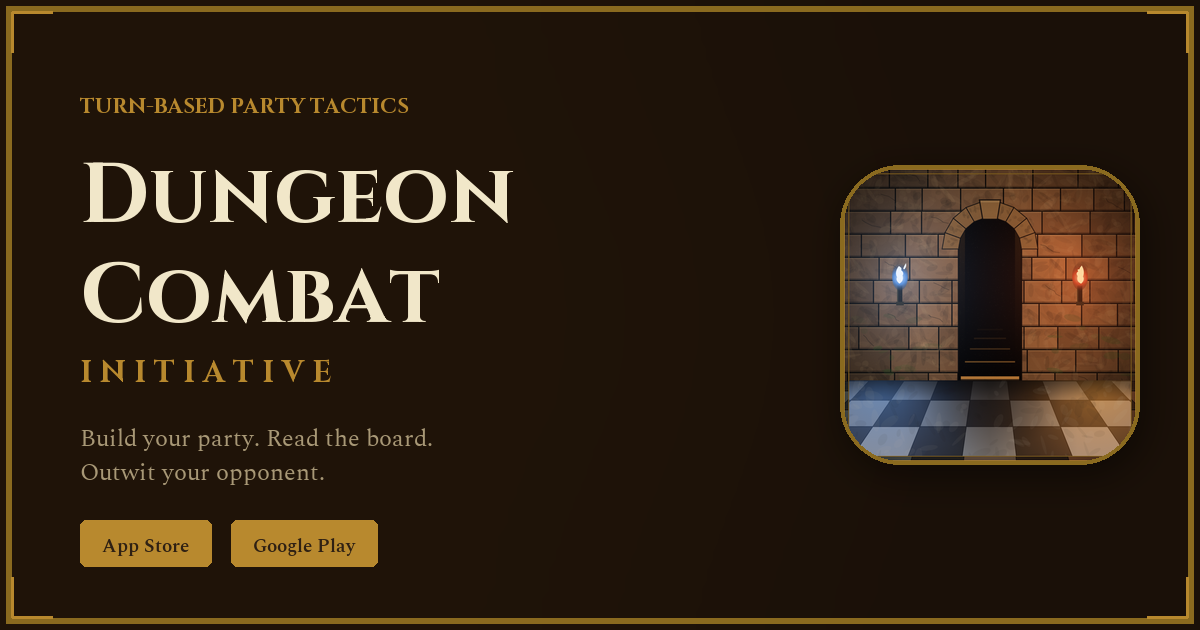
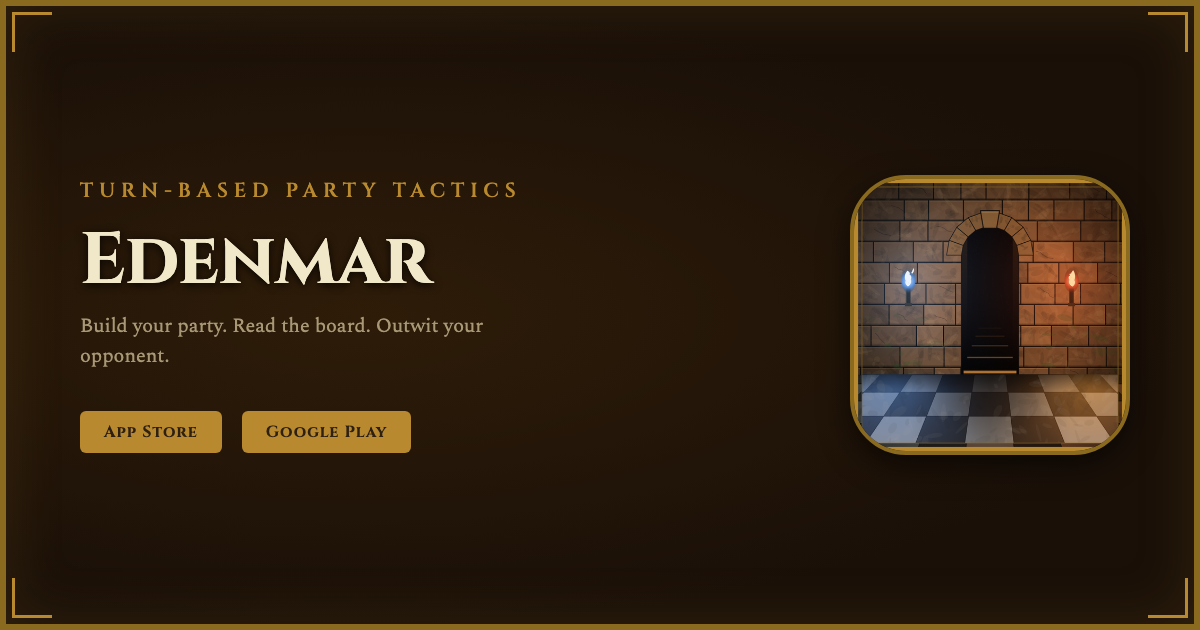
Rename Dungeon Combat -> Edenmar; website moves to edenmargame.com
Site pages, titles, canonical URLs, sitemap/robots, OG share image
(regenerated from og-template.html, now in the site's Cinzel/Spectral),
smart-link landing pages, password-reset email subject, config defaults
and .env.example. Invite links now default to WEB_ORIGIN instead of a
hardcoded dungeoncombat.app host we never owned.

Kept on purpose: the dungeoncombat URL scheme and com.dungeoncombat.app
package (permanent identifiers baked into installed builds and the store
listings), and historical migrations.

diff --git a/web/index.html b/web/index.html
@@ -3,22 +3,22 @@
 <head>
   <meta charset="utf-8" />
   <meta name="viewport" content="width=device-width, initial-scale=1" />
-  <title>Dungeon Combat: Initiative — Tabletop Tactics, No Table</title>
+  <title>Edenmar — Tabletop Tactics, No Table</title>
   <meta name="description" content="Build your party of four from eight classes, choose your specials, and outsmart real opponents in five-minute tactical duels. Daily puzzles, story campaigns, and a tournament-grade AI. No pay-to-win, ever." />
-  <link rel="canonical" href="https://dungeoncombat.org/" />
+  <link rel="canonical" href="https://edenmargame.com/" />
   <link rel="icon" href="/assets/favicon.png" />
   <link rel="apple-touch-icon" href="/assets/apple-touch-icon.png" />
   <meta name="theme-color" content="#f1e7c9" />
-  <meta property="og:title" content="Dungeon Combat: Initiative" />
+  <meta property="og:title" content="Edenmar" />
   <meta property="og:description" content="Tabletop-style tactics duels. Build your party, outsmart friends. No pay-to-win." />
   <meta property="og:type" content="website" />
-  <meta property="og:url" content="https://dungeoncombat.org/" />
+  <meta property="og:url" content="https://edenmargame.com/" />
   <!-- OG/Twitter image URLs must be ABSOLUTE — social scrapers don't resolve relative paths. -->
-  <meta property="og:image" content="https://dungeoncombat.org/assets/og-image.png" />
+  <meta property="og:image" content="https://edenmargame.com/assets/og-image.png" />
   <meta property="og:image:width" content="1200" />
   <meta property="og:image:height" content="630" />
   <meta name="twitter:card" content="summary_large_image" />
-  <meta name="twitter:image" content="https://dungeoncombat.org/assets/og-image.png" />
+  <meta name="twitter:image" content="https://edenmargame.com/assets/og-image.png" />
   <link rel="preconnect" href="https://fonts.googleapis.com" />
   <link rel="preconnect" href="https://fonts.gstatic.com" crossorigin />
   <link href="https://fonts.googleapis.com/css2?family=Cinzel:wght@600;700&family=Spectral:ital,wght@0,400;0,600;0,700;1,400&display=swap" rel="stylesheet" />
@@ -27,9 +27,9 @@
   {
     "@context": "https://schema.org",
     "@type": "VideoGame",
-    "name": "Dungeon Combat: Initiative",
-    "url": "https://dungeoncombat.org/",
-    "image": "https://dungeoncombat.org/assets/og-image.png",
+    "name": "Edenmar",
+    "url": "https://edenmargame.com/",
+    "image": "https://edenmargame.com/assets/og-image.png",
     "description": "Turn-based party tactics. Build a party of four from eight classes and duel real opponents on an 8x8 board. Daily puzzles, story campaigns, offline AI. No pay-to-win.",
     "genre": ["Strategy", "Tactics", "Board"],
     "gamePlatform": ["iOS", "Android"],
@@ -37,7 +37,7 @@
     "operatingSystem": "iOS, Android",
     "offers": { "@type": "Offer", "price": "0", "priceCurrency": "USD" },
     "playMode": ["SinglePlayer", "MultiPlayer"],
-    "publisher": { "@type": "Organization", "name": "Dungeon Combat", "url": "https://dungeoncombat.org/" }
+    "publisher": { "@type": "Organization", "name": "Edenmar", "url": "https://edenmargame.com/" }
   }
   </script>
 </head>
@@ -45,8 +45,8 @@
   <header class="topbar">
     <div class="wrap">
       <a class="brand" href="/">
-        <img src="/assets/icon.png" alt="Dungeon Combat logo" />
-        <span class="name">Dungeon Combat</span>
+        <img src="/assets/icon.png" alt="Edenmar logo" />
+        <span class="name">Edenmar</span>
       </a>
       <nav class="navlinks">
         <a href="/#classes">Classes</a>
@@ -62,7 +62,7 @@
       <div class="wrap hero-grid">
         <div>
           <span class="eyebrow">Turn-based party tactics</span>
-          <h1>Dungeon Combat <span class="sub">Initiative</span></h1>
+          <h1>Edenmar</h1>
           <p class="lede">Remember the best part of game night — the moment your plan came together? That moment, in five-minute tactical duels on your phone.</p>
           <div class="proof-strip">
             <span>8 classes</span><i>·</i>
@@ -73,7 +73,7 @@
           <div class="stores" id="get" data-stores></div>
         </div>
         <div class="hero-art">
-          <img class="hero-icon" src="/assets/icon.png" alt="Dungeon Combat — a torchlit dungeon door above a checkered battle floor" />
+          <img class="hero-icon" src="/assets/icon.png" alt="Edenmar — a torchlit dungeon door above a checkered battle floor" />
           <img class="hero-hover hero-hover-l" src="/assets/portraits/fighter.png" alt="" aria-hidden="true" />
           <img class="hero-hover hero-hover-r" src="/assets/portraits/warlock.png" alt="" aria-hidden="true" />
         </div>
@@ -215,7 +215,7 @@
       <div class="wrap">
         <div class="section-head">
           <h2>Ready your party</h2>
-          <p>Download Dungeon Combat: Initiative and play your first duel in minutes.</p>
+          <p>Download Edenmar and play your first duel in minutes.</p>
         </div>
         <div class="stores" data-stores style="justify-content:center"></div>
       </div>
@@ -226,14 +226,14 @@
     <div class="wrap">
       <div class="foot-brand">
         <img src="/assets/icon.png" alt="" />
-        Dungeon Combat: Initiative
+        Edenmar
       </div>
       <nav>
         <a href="/support.html">Support</a>
         <a href="/privacy.html">Privacy Policy</a>
         <a href="/terms.html">Terms of Service</a>
       </nav>
-      <div class="copy">© <span data-year></span> Dungeon Combat. Tabletop-inspired tactics. Not affiliated with any tabletop RPG publisher.</div>
+      <div class="copy">© <span data-year></span> Edenmar. Tabletop-inspired tactics. Not affiliated with any tabletop RPG publisher.</div>
     </div>
   </footer>
 

diff --git a/web/terms.html b/web/terms.html
@@ -3,9 +3,9 @@
 <head>
   <meta charset="utf-8" />
   <meta name="viewport" content="width=device-width, initial-scale=1" />
-  <title>Terms of Service — Dungeon Combat: Initiative</title>
-  <meta name="description" content="Terms of Service for Dungeon Combat: Initiative." />
-  <link rel="canonical" href="https://dungeoncombat.org/terms.html" />
+  <title>Terms of Service — Edenmar</title>
+  <meta name="description" content="Terms of Service for Edenmar." />
+  <link rel="canonical" href="https://edenmargame.com/terms.html" />
   <link rel="icon" href="/assets/favicon.png" />
   <link rel="preconnect" href="https://fonts.googleapis.com" />
   <link rel="preconnect" href="https://fonts.gstatic.com" crossorigin />
@@ -16,8 +16,8 @@
   <header class="topbar">
     <div class="wrap">
       <a class="brand" href="/">
-        <img src="/assets/icon.png" alt="Dungeon Combat logo" />
-        <span class="name">Dungeon Combat</span>
+        <img src="/assets/icon.png" alt="Edenmar logo" />
+        <span class="name">Edenmar</span>
       </a>
       <nav class="navlinks">
         <a href="/#features">Features</a>
@@ -33,7 +33,7 @@
       <h1>Terms of Service</h1>
       <p class="updated">Last updated: <span data-review-date>2026-07-24</span></p>
 
-      <p>These Terms govern your use of Dungeon Combat: Initiative. By creating an account or playing, you agree to them.</p>
+      <p>These Terms govern your use of Edenmar. By creating an account or playing, you agree to them.</p>
 
       <h2>Your account</h2>
       <p>You are responsible for keeping your login secure and for activity under your account. Provide accurate information and keep it up to date. One person, one account, unless we agree otherwise.</p>
@@ -42,7 +42,7 @@
       <p>Play fair. Do not cheat, exploit bugs, use automation to gain an advantage, harass other players, or attempt to disrupt the service. We may suspend or close accounts that break these rules.</p>
 
       <h2>Purchases</h2>
-      <p>The game may offer optional purchases of content such as campaigns and character skins. Purchases sell content, never competitive power — Dungeon Combat: Initiative is designed to be free of pay-to-win mechanics. Purchases are handled by the App Store or Google Play, and their terms and refund policies apply.</p>
+      <p>The game may offer optional purchases of content such as campaigns and character skins. Purchases sell content, never competitive power — Edenmar is designed to be free of pay-to-win mechanics. Purchases are handled by the App Store or Google Play, and their terms and refund policies apply.</p>
 
       <h2>Content and conduct</h2>
       <p>Choose a username and any player-visible content that is respectful and appropriate for a kid-friendly audience. We may remove content or names that violate these Terms.</p>
@@ -68,14 +68,14 @@
     <div class="wrap">
       <div class="foot-brand">
         <img src="/assets/icon.png" alt="" />
-        Dungeon Combat: Initiative
+        Edenmar
       </div>
       <nav>
         <a href="/support.html">Support</a>
         <a href="/privacy.html">Privacy Policy</a>
         <a href="/terms.html">Terms of Service</a>
       </nav>
-      <div class="copy">© <span data-year></span> Dungeon Combat.</div>
+      <div class="copy">© <span data-year></span> Edenmar.</div>
     </div>
   </footer>
 

diff --git a/web/privacy.html b/web/privacy.html
@@ -3,9 +3,9 @@
 <head>
   <meta charset="utf-8" />
   <meta name="viewport" content="width=device-width, initial-scale=1" />
-  <title>Privacy Policy — Dungeon Combat: Initiative</title>
-  <meta name="description" content="Privacy Policy for Dungeon Combat: Initiative." />
-  <link rel="canonical" href="https://dungeoncombat.org/privacy.html" />
+  <title>Privacy Policy — Edenmar</title>
+  <meta name="description" content="Privacy Policy for Edenmar." />
+  <link rel="canonical" href="https://edenmargame.com/privacy.html" />
   <link rel="icon" href="/assets/favicon.png" />
   <link rel="preconnect" href="https://fonts.googleapis.com" />
   <link rel="preconnect" href="https://fonts.gstatic.com" crossorigin />
@@ -16,8 +16,8 @@
   <header class="topbar">
     <div class="wrap">
       <a class="brand" href="/">
-        <img src="/assets/icon.png" alt="Dungeon Combat logo" />
-        <span class="name">Dungeon Combat</span>
+        <img src="/assets/icon.png" alt="Edenmar logo" />
+        <span class="name">Edenmar</span>
       </a>
       <nav class="navlinks">
         <a href="/#features">Features</a>
@@ -33,7 +33,7 @@
       <h1>Privacy Policy</h1>
       <p class="updated">Last updated: <span data-review-date>2026-07-24</span></p>
 
-      <p>This Privacy Policy explains what information Dungeon Combat: Initiative ("the game", "we", "us") collects, why, and what choices you have. We keep it short because we collect little.</p>
+      <p>This Privacy Policy explains what information Edenmar ("the game", "we", "us") collects, why, and what choices you have. We keep it short because we collect little.</p>
 
       <h2>Information we collect</h2>
       <h3>Account information</h3>
@@ -85,14 +85,14 @@
     <div class="wrap">
       <div class="foot-brand">
         <img src="/assets/icon.png" alt="" />
-        Dungeon Combat: Initiative
+        Edenmar
       </div>
       <nav>
         <a href="/support.html">Support</a>
         <a href="/privacy.html">Privacy Policy</a>
         <a href="/terms.html">Terms of Service</a>
       </nav>
-      <div class="copy">© <span data-year></span> Dungeon Combat.</div>
+      <div class="copy">© <span data-year></span> Edenmar.</div>
     </div>
   </footer>
 

diff --git a/src/config/index.ts b/src/config/index.ts
@@ -90,7 +90,7 @@ export const config = {
 
   // Public website + smart links + support email. See .env.example for setup.
   web: {
-    // Canonical https origin the site is served from, e.g. https://dungeoncombat.org
+    // Canonical https origin the site is served from, e.g. https://edenmargame.com
     // Used for OG tags and CORS. No trailing slash.
     origin: optionalEnv('WEB_ORIGIN', 'http://localhost:3000'),
     // Store listing URLs. Empty until the listings are live — the site then
@@ -101,6 +101,8 @@ export const config = {
     // listings exist, where the store badges won't point). e.g. a TestFlight/APK page.
     downloadFallbackUrl: optionalEnv('DOWNLOAD_FALLBACK_URL', ''),
     // Custom scheme for app deep links (matches mobile app.json "scheme").
+    // ⚠ Permanent: pre-rename identifier (the game is now Edenmar). Installed builds
+    // only answer to this scheme, so renaming it would break every existing link.
     appScheme: optionalEnv('APP_SCHEME', 'dungeoncombat'),
     // Support inbox shown on the site and used as the reply-to for support mail.
     supportEmail: optionalEnv('SUPPORT_EMAIL', 'support@example.com'),
@@ -115,10 +117,10 @@ export const config = {
     // /api/support endpoint returns a friendly "email us directly" error.
     resendApiKey: optionalEnv('RESEND_API_KEY', ''),
     // Verified sender the support form mail is sent FROM (must be on a Resend-verified
-    // domain), e.g. "Dungeon Combat <no-reply@dungeoncombat.org>".
+    // domain), e.g. "Edenmar <no-reply@edenmargame.com>".
     // EMAIL_FROM is accepted as an alias: the password-reset mailer used to read
     // that name only, so a deploy may have either (or both) set.
-    fromAddress: optionalEnv('MAIL_FROM', process.env.EMAIL_FROM ?? 'Dungeon Combat <no-reply@example.com>'),
+    fromAddress: optionalEnv('MAIL_FROM', process.env.EMAIL_FROM ?? 'Edenmar <no-reply@example.com>'),
     // Inbox that receives support submissions (defaults to SUPPORT_EMAIL).
     supportInbox: optionalEnv('SUPPORT_INBOX', process.env.SUPPORT_EMAIL ?? 'support@example.com'),
   },

diff --git a/web/support.html b/web/support.html
@@ -3,9 +3,9 @@
 <head>
   <meta charset="utf-8" />
   <meta name="viewport" content="width=device-width, initial-scale=1" />
-  <title>Support — Dungeon Combat: Initiative</title>
-  <meta name="description" content="Get help with Dungeon Combat: Initiative. Report a bug, ask a question, or contact the team." />
-  <link rel="canonical" href="https://dungeoncombat.org/support.html" />
+  <title>Support — Edenmar</title>
+  <meta name="description" content="Get help with Edenmar. Report a bug, ask a question, or contact the team." />
+  <link rel="canonical" href="https://edenmargame.com/support.html" />
   <link rel="icon" href="/assets/favicon.png" />
   <link rel="preconnect" href="https://fonts.googleapis.com" />
   <link rel="preconnect" href="https://fonts.gstatic.com" crossorigin />
@@ -16,8 +16,8 @@
   <header class="topbar">
     <div class="wrap">
       <a class="brand" href="/">
-        <img src="/assets/icon.png" alt="Dungeon Combat logo" />
-        <span class="name">Dungeon Combat</span>
+        <img src="/assets/icon.png" alt="Edenmar logo" />
+        <span class="name">Edenmar</span>
       </a>
       <nav class="navlinks">
         <a href="/#features">Features</a>
@@ -75,14 +75,14 @@
     <div class="wrap">
       <div class="foot-brand">
         <img src="/assets/icon.png" alt="" />
-        Dungeon Combat: Initiative
+        Edenmar
       </div>
       <nav>
         <a href="/support.html">Support</a>
         <a href="/privacy.html">Privacy Policy</a>
         <a href="/terms.html">Terms of Service</a>
       </nav>
-      <div class="copy">© <span data-year></span> Dungeon Combat.</div>
+      <div class="copy">© <span data-year></span> Edenmar.</div>
     </div>
   </footer>
 

diff --git a/web/og-template.html b/web/og-template.html
@@ -8,12 +8,13 @@
 <html lang="en">
 <head>
   <meta charset="utf-8">
+  <link href="https://fonts.googleapis.com/css2?family=Cinzel:wght@600;700&family=Spectral:wght@400;600&display=swap" rel="stylesheet">
   <style>
     * { margin: 0; padding: 0; box-sizing: border-box; }
     body {
       width: 1200px; height: 630px; overflow: hidden;
       background: #1a1008;
-      font-family: Georgia, 'Times New Roman', serif;
+      font-family: 'Spectral', Georgia, serif;
       display: flex; align-items: center; justify-content: space-between;
     }
     /* Parchment gradient bg */
@@ -77,6 +78,7 @@
       display: flex; align-items: center; justify-content: center;
       color: #5c4520; font-size: 14px; text-align: center; padding: 20px;
     }
+      .eyebrow, .title, .badge { font-family: 'Cinzel', Georgia, serif; }
   </style>
 </head>
 <body>
@@ -86,9 +88,8 @@
   <div class="corner bl"></div><div class="corner br"></div>
 
   <div class="left">
-    <div class="eyebrow">Turn-Based Strategy</div>
-    <div class="title">Dungeon<br>Combat</div>
-    <div class="subtitle">Initiative</div>
+    <div class="eyebrow">Turn-Based Party Tactics</div>
+    <div class="title">Edenmar</div>
     <div class="tagline">Build your party. Read the board. Outwit your opponent.</div>
     <div class="store-row">
       <div class="badge">App Store</div>
@@ -99,7 +100,7 @@
   <div class="right">
     <img src="/assets/icon.png" width="280" height="280"
          style="border-radius:56px; border:4px solid #8a6a1f; box-shadow: 0 10px 30px rgba(0,0,0,0.6)"
-         alt="Dungeon Combat app icon">
+         alt="Edenmar app icon">
   </div>
 </body>
 </html>

diff --git a/src/routes/web.ts b/src/routes/web.ts
@@ -115,11 +115,11 @@ webRouter.get('/l/:kind/:token', (req: Request, res: Response): void => {
 
   const appUrl = `${config.web.appScheme}://${kind.scheme}/${token}`;
   const store = fallbackUrl();
-  const title = `Dungeon Combat — ${kind.label}`;
+  const title = `Edenmar — ${kind.label}`;
   const desc =
     kind.scheme === 'invite'
-      ? 'A friend has challenged you to a tactical duel. Tap to accept in Dungeon Combat.'
-      : 'Can you solve today\'s puzzle? Tap to play in Dungeon Combat.';
+      ? 'A friend has challenged you to a tactical duel. Tap to accept in Edenmar.'
+      : 'Can you solve today\'s puzzle? Tap to play in Edenmar.';
 
   // Per-response CSP allowing exactly one nonce'd inline script.
   const nonce = crypto.randomBytes(16).toString('base64');
@@ -157,10 +157,10 @@ webRouter.get('/l/:kind/:token', (req: Request, res: Response): void => {
 </head>
 <body>
 <div class="box">
-  <img src="/assets/icon.png" alt="Dungeon Combat" />
+  <img src="/assets/icon.png" alt="Edenmar" />
   <h1>${esc(title)}</h1>
   ${inviteCodeHtml}
-  <p id="msg">Opening Dungeon Combat…</p>
+  <p id="msg">Opening Edenmar…</p>
   <a class="btn" id="fallback" href="${esc(store)}">Get the Game</a>
 </div>
 <script nonce="${nonce}">

diff --git a/src/services/challengeService.ts b/src/services/challengeService.ts
@@ -185,7 +185,7 @@ export async function createInvite(
     [token, challengerId, teamId]
   );
 
-  const webBase = (process.env['WEB_BASE_URL'] ?? 'https://dungeoncombat.app');
+  const webBase = (process.env['WEB_BASE_URL'] ?? process.env['WEB_ORIGIN'] ?? 'https://edenmargame.com');
   const shareUrl = `${webBase}/l/i/${token}`;
   logger.info({ challengerId, token }, 'Challenge invite created');
   return { token, shareUrl };

diff --git a/web/404.html b/web/404.html
@@ -3,7 +3,7 @@
 <head>
   <meta charset="utf-8">
   <meta name="viewport" content="width=device-width,initial-scale=1">
-  <title>Page Not Found — Dungeon Combat</title>
+  <title>Page Not Found — Edenmar</title>
   <link rel="stylesheet" href="/styles.css">
   <style>
     .err-wrap { min-height: 60vh; display: flex; flex-direction: column; align-items: center; justify-content: center; text-align: center; padding: 2rem; }

diff --git a/src/ai/aiBrain.ts b/src/ai/aiBrain.ts
@@ -1,5 +1,5 @@
 /**
- * aiBrain.ts (v7) — AI decision-making for DungeonCombat, updated for:
+ * aiBrain.ts (v7) — AI decision-making for Edenmar, updated for:
  *  - 8x8 CROSS BOARD: all board loops use BOARD_SIZE (see geometry.ts —
  *    BOARD_WIDTH=10 was a pre-existing engine bug, now fixed; this brain
  *    always used the correct 8x8 board and never needed BOARD_WIDTH/HEIGHT).

diff --git a/src/ai/simHarness.ts b/src/ai/simHarness.ts
@@ -1,5 +1,5 @@
 /**
- * simHarness.ts — In-memory match simulator for DungeonCombat. (v2)
+ * simHarness.ts — In-memory match simulator for Edenmar. (v2)
  *
  * Runs N full matches between two AIBrain instances using the real game engine
  * (processTurn). No database required — unit/ability data comes from defaultData.ts.

diff --git a/web/site.js b/web/site.js
@@ -1,4 +1,4 @@
-/* Dungeon Combat — shared front-end script.
+/* Edenmar — shared front-end script.
    Reads window.SITE_CONFIG (served dynamically by the backend at /site-config.js)
    so store URLs and the support address are configured by env, not hard-coded here. */
 (function () {
